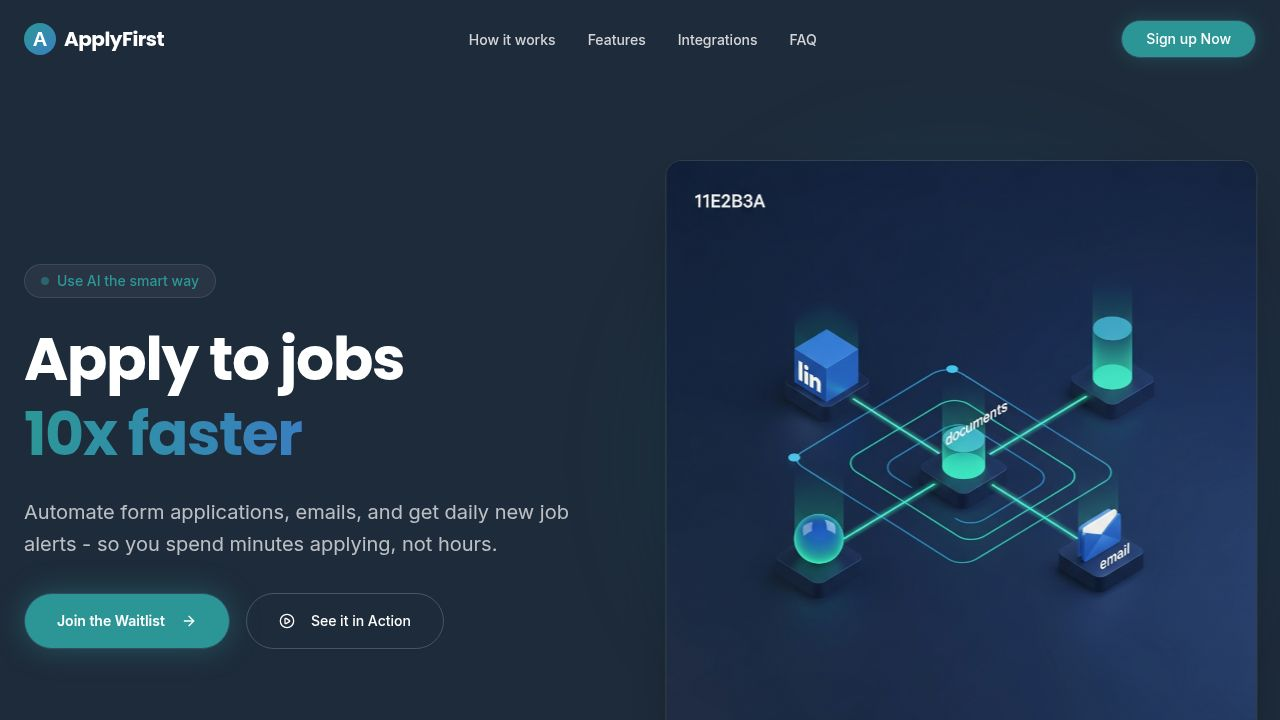
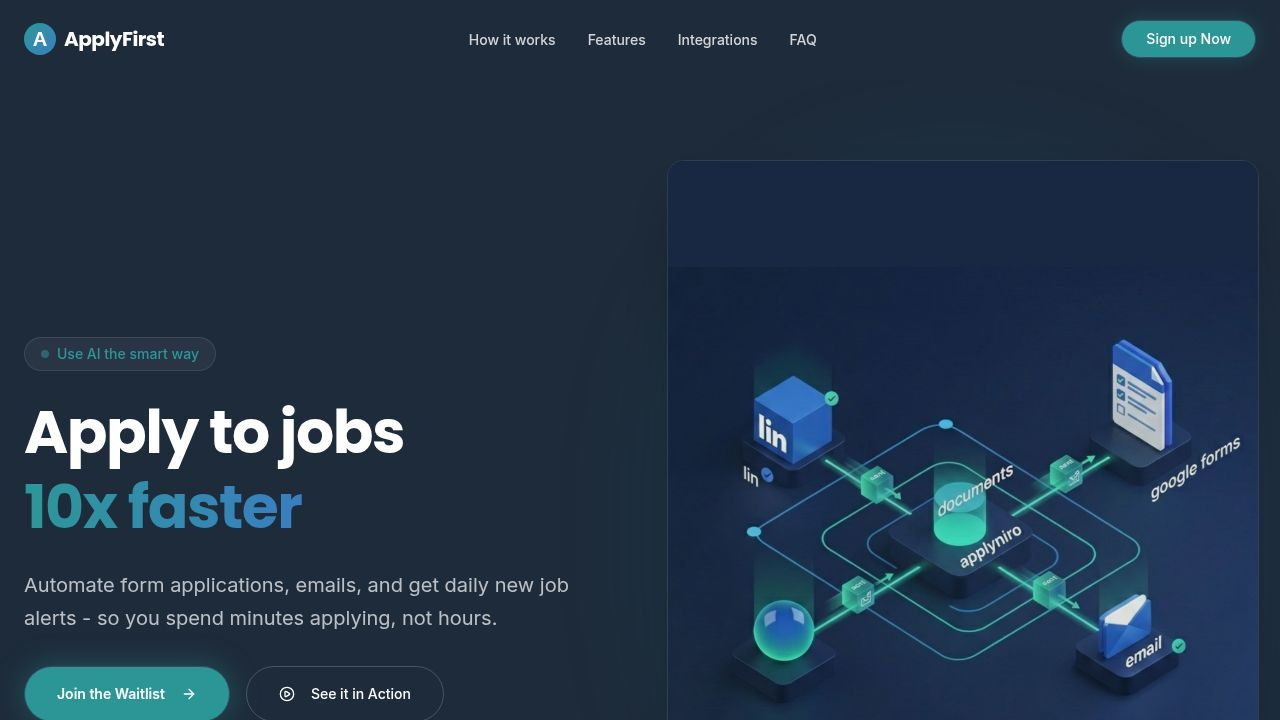
Update hero section image with provided asset
Replace static hero illustration with a new image asset located at client/src/assets/hero-image.png and update the opengraph image.

Replit-Commit-Author: Agent
Replit-Commit-Session-Id: 22400383-7542-4e19-ba84-a5dd84e1e263
Replit-Commit-Checkpoint-Type: full_checkpoint
Replit-Commit-Event-Id: 9d90981f-d5d8-43ab-bb22-60279563a970
Replit-Commit-Screenshot-Url: https://storage.googleapis.com/screenshot-production-us-central1/da60b652-09ef-4fd6-818d-487b9a7e6229/22400383-7542-4e19-ba84-a5dd84e1e263/nwHYrK7
Replit-Helium-Checkpoint-Created: true

diff --git a/client/src/pages/Home.tsx b/client/src/pages/Home.tsx
@@ -3,7 +3,7 @@ import { Button } from "@/components/ui/button";
 import { Link } from "wouter";
 import { motion } from "framer-motion";
 import { ArrowRight, Zap, Mail, Bell, PlayCircle, CheckCircle } from "lucide-react";
-import heroIllustration from "@/assets/hero-illustration.png";
+import heroIllustration from "@/assets/hero-image.png";
 import dashboardMock from "@/assets/dashboard-mock.png";
 
 export default function Home() {
